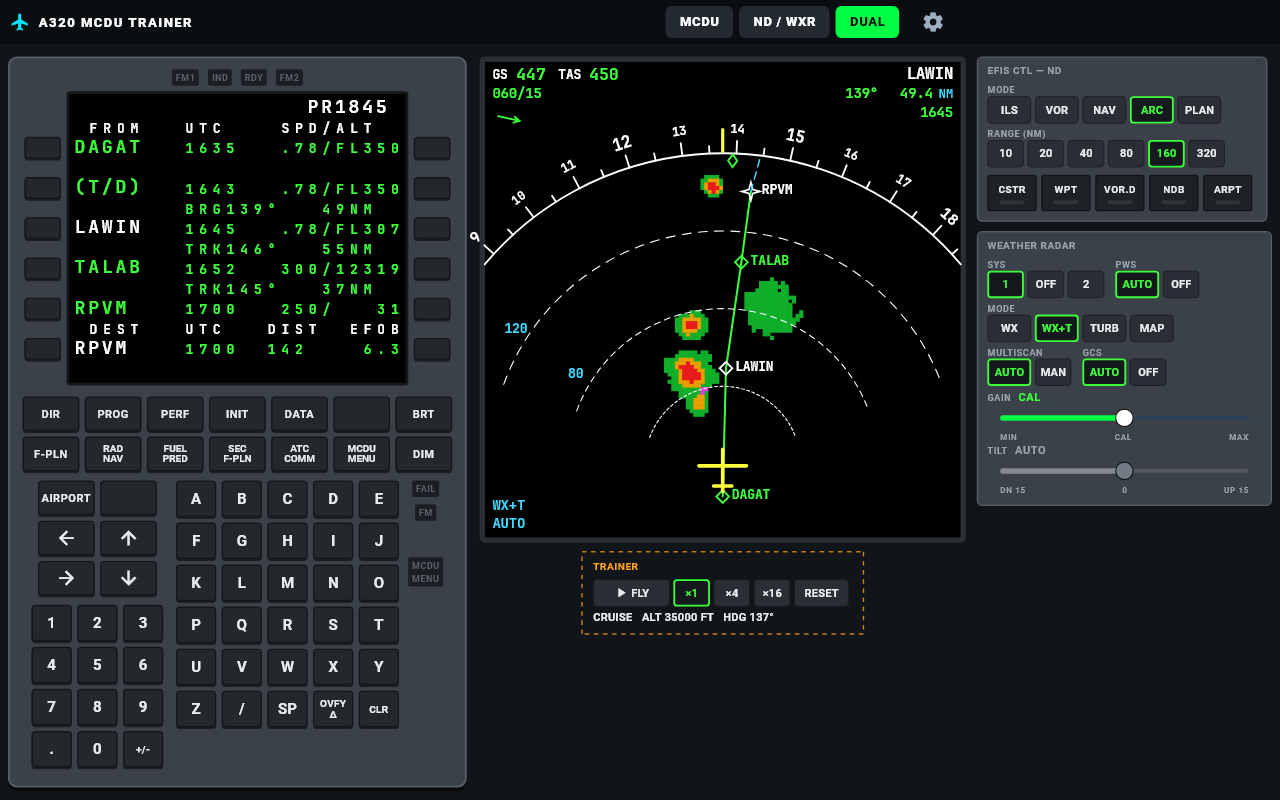
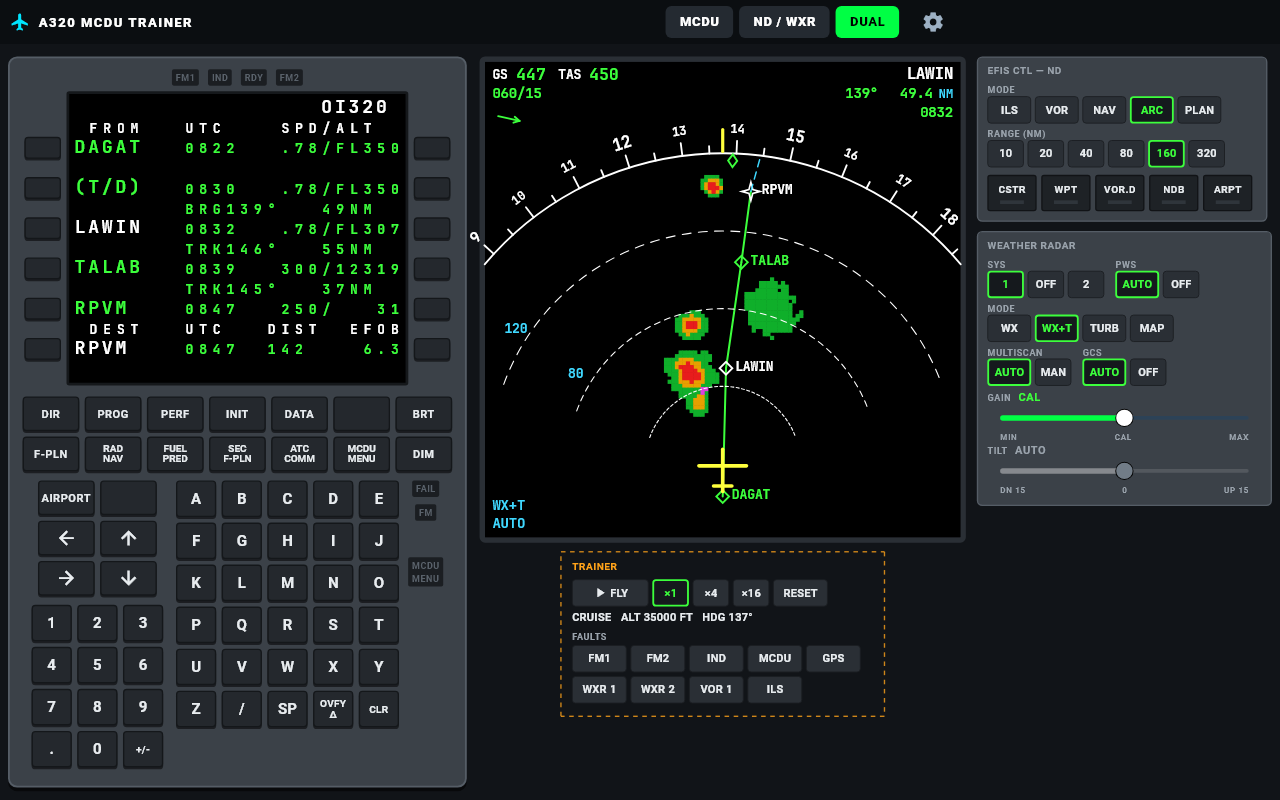
Website: A320 MCDU Trainer v1.2 (trainer faults), refreshed screenshots

diff --git a/landing/app/mcdu/page.tsx b/landing/app/mcdu/page.tsx
@@ -60,6 +60,7 @@ const shots = [
   ["mcdu-wxr-tilt.png", "Manual tilt too low: ground returns over the islands"],
   ["mcdu-dirto.png", "DIR TO from the present position"],
   ["mcdu-plan.png", "PLAN mode with the WPT option"],
+  ["mcdu-faults.png", "Trainer faults: FM1 failed, GPS lost, weather radar system 1 failed"],
 ];
 
 const steps = [
@@ -162,6 +163,12 @@ export default async function McduPage() {
               page, a discontinuity stops managed navigation, and RESET brings
               the aircraft back to the gate. Dashed boxes mark controls that
               exist only in the trainer.
+            </p>
+            <p className="mt-2 text-sm leading-relaxed text-silver">
+              <b className="text-white">FAULTS</b> lets the instructor fail a
+              system: FM1 or FM2 (single FMGC, PLEASE WAIT after the reset),
+              IND, MCDU FAIL, GPS (GPS PRIMARY LOST, NAV ACCUR DOWNGRAD on the
+              approach), weather radar system 1 or 2, VOR 1 and ILS.
             </p>
           </div>
         </section>

diff --git a/landing/app/site.ts b/landing/app/site.ts
@@ -46,14 +46,14 @@ export const fap = {
 
 /** A320 MCDU Trainer (pilots: MCDU, ND and weather radar). */
 export const mcdu = {
-  version: "1.1",
-  releaseTag: "mcdu-v1.1",
-  apkName: "A320_MCDU_Trainer_v1.1.apk",
+  version: "1.2",
+  releaseTag: "mcdu-v1.2",
+  apkName: "A320_MCDU_Trainer_v1.2.apk",
   get apkUrl() {
     return releaseFile(this.releaseTag, this.apkName);
   },
   /** Windows installer (Inno Setup), attached to the same release. */
-  windowsName: "A320_MCDU_Trainer_Setup_v1.1.exe",
+  windowsName: "A320_MCDU_Trainer_Setup_v1.2.exe",
   get windowsUrl() {
     return releaseFile(this.releaseTag, this.windowsName);
   },
